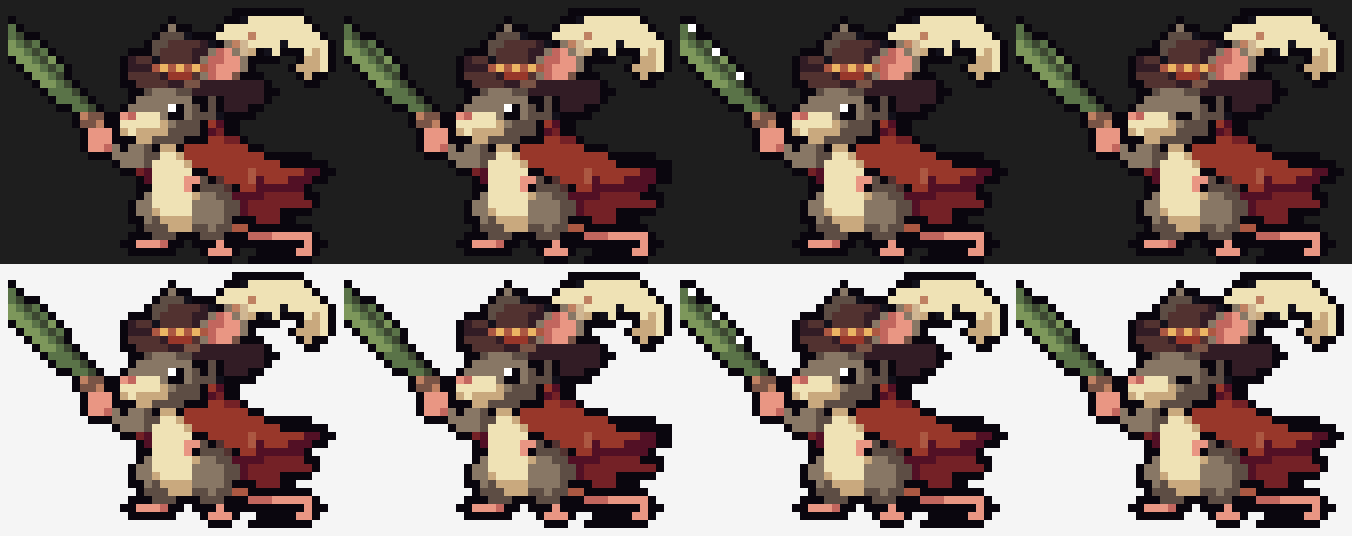
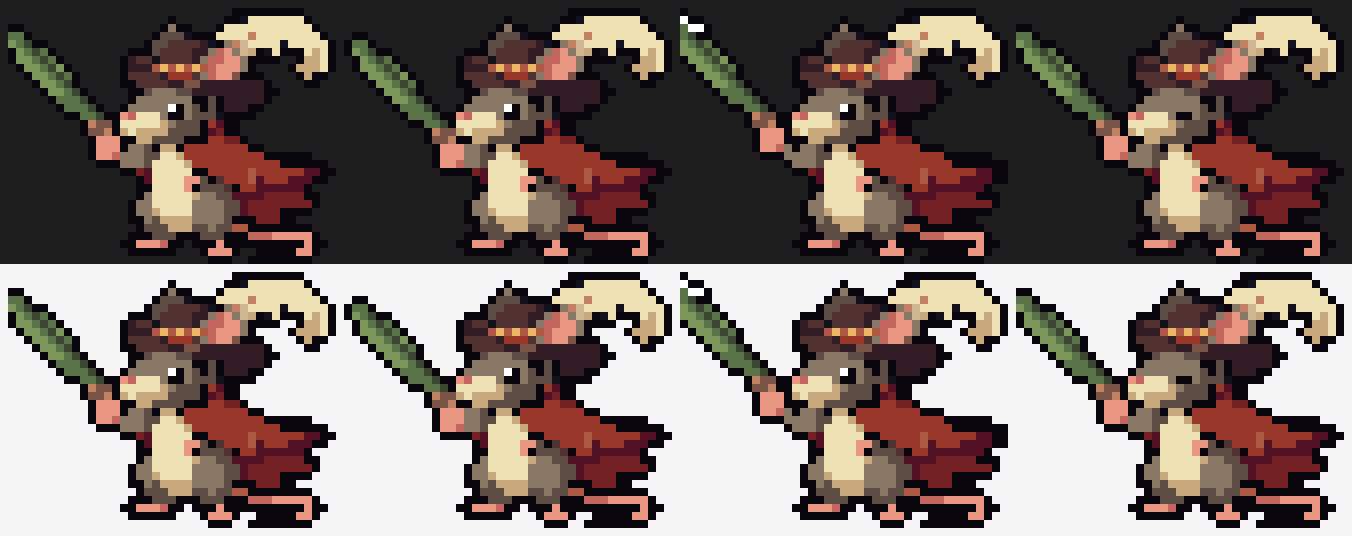
P5-19: Musketail pokes with its sword
Rest, wind-up, thrust with a tip glint and cape flare, rest with a blink.

diff --git a/docs/sessions/2026-10-14-danielpg95-P5-19.md b/docs/sessions/2026-10-14-danielpg95-P5-19.md
@@ -21,7 +21,7 @@ the three placeholders, add three new Modsters, and bring Whispering Forest to
 - New Modsters:
   - `plugin/content/modsters/pinekin/`: **Pinekin**, #024, common, grass/normal, Pinecone Modster. Scales converted from @danielpg95's reference, head redrawn by hand. 38×32, 15 colors, 4 fps.
   - `plugin/content/modsters/hollowmask/`: **Hollowmask**, #025, uncommon, dark/grass, Log Raccoon Modster. Log, moss and tail converted from @danielpg95's reference (6 bark columns cut to fit 48 wide); the approved face redrawn into it, sitting low with its chin on its paws. 48×32, 24 colors, 4 fps.
-  - `plugin/content/modsters/musketail/`: **Musketail**, #026, rare, fighting/grass, Swordsmouse Modster. Body, hat, feather, cape and tail converted from @danielpg95's reference; face, arm and pine-sprig sword drawn by hand. 41×32, 22 colors, 4 fps.
+  - `plugin/content/modsters/musketail/`: **Musketail**, #026, rare, fighting/grass, Swordsmouse Modster. Body, hat, feather, cape and tail converted from @danielpg95's reference; face, arm and pine-sprig sword drawn by hand; animates a sword poke (rest, wind-up, thrust with a glint, rest with a blink). 41×32, 22 colors, 4 fps.
 - `plugin/content/biomes/whispering-forest/biome.json` lists all 10. Credit rows updated or added in `plugin/content/CREDITS.md`.
 - Verified: `npm run check:content` passes, and its odds table shows 3/3/3/1 (commons 25.3% each, uncommons 6.3%, rares 1.5%, Elderbark 0.5%). `claude plugin test ./plugin` passes: 670 tests.
 - Every sprite was approved by @danielpg95 from enlarged previews on dark and light backgrounds. The sprites were drawn with throwaway scripts in `/tmp/modster-art` (not in the repo, per the add-modster skill).
